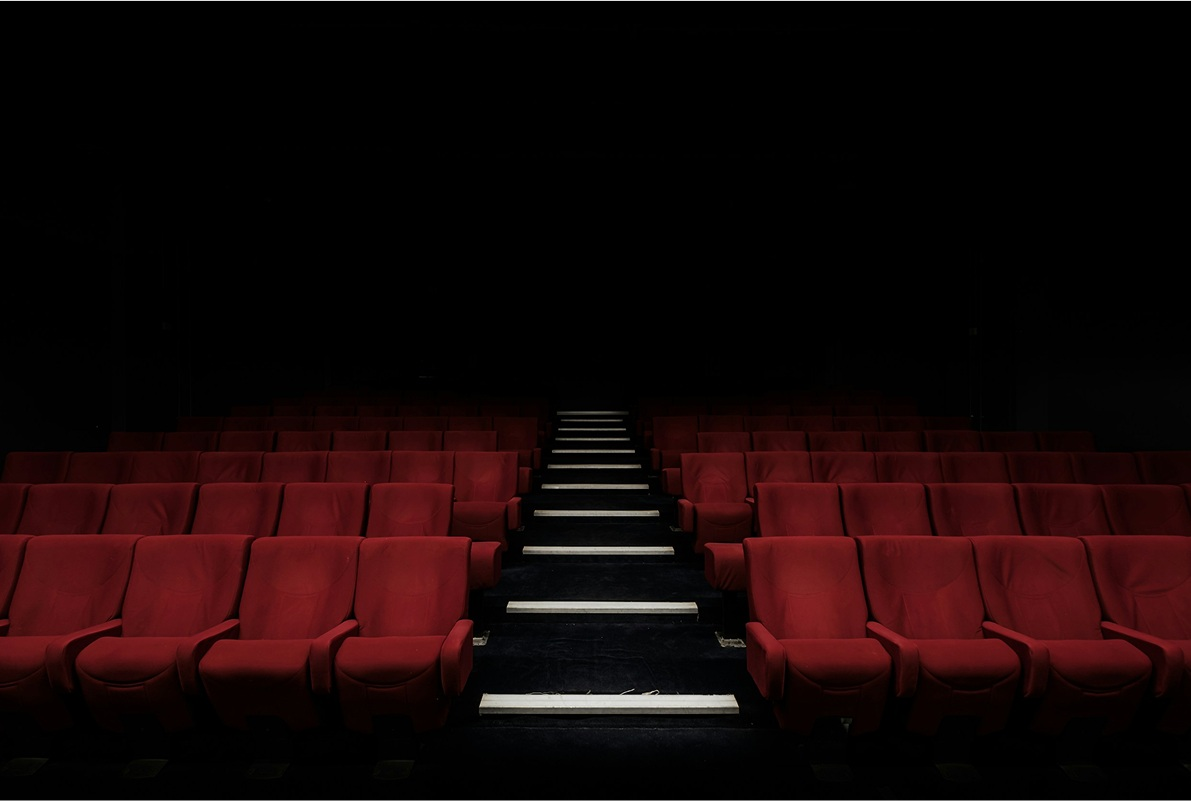
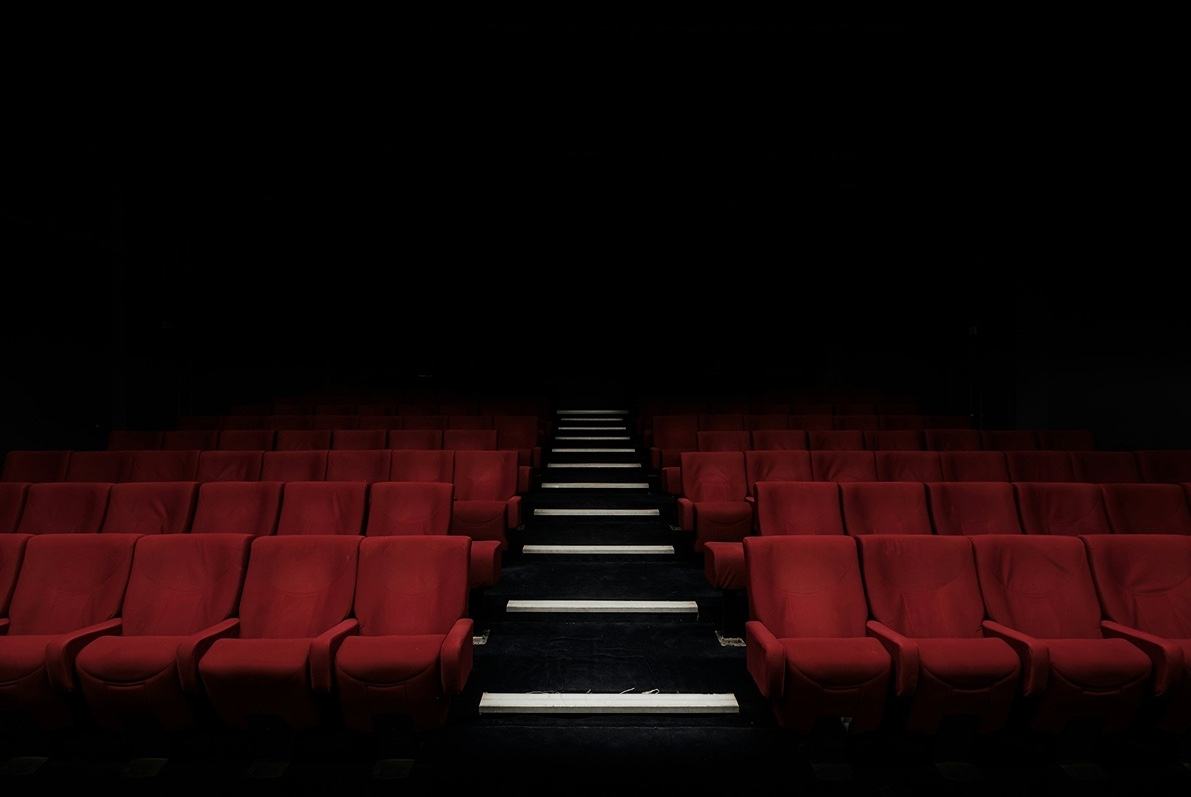
improving result pagee

diff --git a/src/components/Movie/Movie.scss b/src/components/Movie/Movie.scss
@@ -11,15 +11,37 @@ $border-radius: 8px;
 }
 
 .movie {
-  background: url("../../images/movie-item/back-texture.jpg") no-repeat;
-  background-size: cover;
+  position: relative;
+  background: url("src/images/movie-item/Back-texture.png")
+    no-repeat center center / cover;
   color: $main-text-color;
-  @extend %AG_H5;
   padding-bottom: 70px;
-  // padding-left: 40px;
+  z-index: 0;
+
+  // 👇 Убедись, что .movie достаточно высокий
+  min-height: 100vh;
+
+  // Чтобы затемняющий слой работал
+  &::before {
+    content: "";
+    position: absolute;
+    inset: 0;
+    background: rgba(0, 0, 0, 0.6); // интенсивное затемнение
+    // z-index: 1;
+    pointer-events: none;
+  }
+
+  // Поднять контент над затемнением
+  > * {
+    position: relative;
+    z-index: 2;
+  }
   @include respond(mobile) {
+    // margin-inline: auto;
     max-width: 375px;
   }
+
+
   &-row {
     margin: 56px 0 48px;
     display: flex;
@@ -57,14 +79,43 @@ $border-radius: 8px;
     @extend %AG_H1;
   }
   &-content {
-    background: url("../../images/movie-item/back-photo-movie-info.jpg")
-      no-repeat;
-    background-size: cover;
+    position: relative;
     width: 100%;
     height: fit-content;
     padding: 0 40px 125px;
+    overflow: hidden;
+    z-index: 0;
+  
+    @include respond(mobile) {
+      padding: 0;
+    }
+  
+    // Картинка с прозрачностью
+    &::before {
+      content: "";
+      position: absolute;
+      inset: 0;
+      background: url("../../images/movie-item/back-photo-movie-info.jpg")
+        no-repeat center / cover;
+      opacity: 0.4;
+      z-index: -2;
+    }
+  
+    // // Мягкая тень снизу
+    // &::after {
+    //   content: "";
+    //   position: absolute;
+    //   left: 0;
+    //   right: 0;
+    //   bottom: 0;
+    //   height: 100px;
+    //   background: linear-gradient(
+    //     rgba(0, 0, 0, 0.3),
+    //     rgba(0, 0, 0, 0)
+    //   );
+    //   z-index: -1;
+    // }
   }
-
   &-coteiner-info {
     display: grid;
     gap: 20px;
